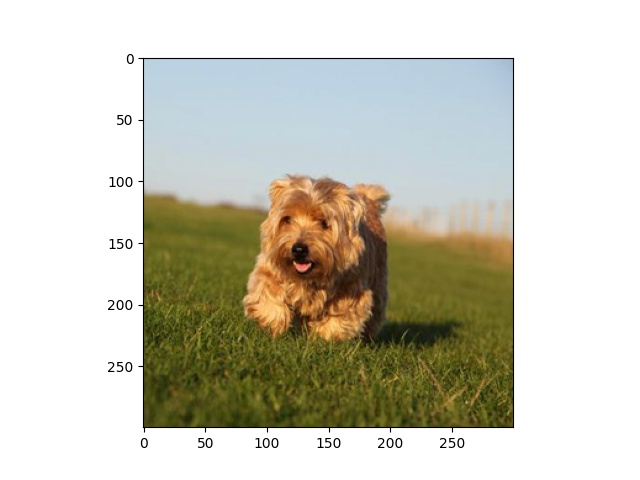
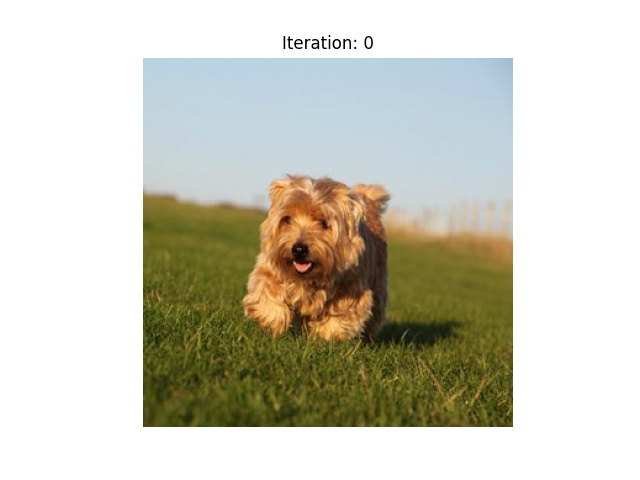
Add coeffs as an argument

diff --git a/Analysis/contour_resample.py b/Analysis/contour_resample.py
@@ -68,7 +68,7 @@ N = 70
 xi, yi = resample_2d(points, N)
 # ax[1].scatter(xi, yi)
 # plt.show()
-fig, ax = plt.subplots(3, 6)
+fig, ax = plt.subplots(3, 4)
 contour_array = np.stack((xi, yi), axis=1)
 # plt.scatter(points[1:, 0], points[1:, 1], c='blue')
 # plt.scatter(points[0, 0], points[0, 1], c='red')
@@ -85,14 +85,14 @@ ax[0, 0].legend()
 ax[0, 0].set_title('Original')
 ax[0, 0].set_ylabel('Images')
 
-ax[1, 0].stem(list(range(len(fourier_result[1:]))), abs(fourier_result[1:]), 'b', markerfmt=" ", basefmt="-b")
+ax[1, 0].stem(np.linspace(0, np.pi, len(fourier_result))[1:], abs(fourier_result[1:]), 'b', markerfmt=" ", basefmt="-b")
 # ax[1, 0].plot(fourier_result.real[1:], label='Real')
 # ax[1, 0].plot(fourier_result.imag[1:], label='Imag')
 # ax[1, 0].legend(loc='lower left')
 ax[1, 0].set_ylabel('Amplitude')
 
 phase = np.arctan2(fourier_result.imag, fourier_result.real)
-ax[2, 0].stem(list(range(len(phase[1:]))), phase[1:], 'b', markerfmt=" ", basefmt="-b")
+ax[2, 0].stem(np.linspace(0, np.pi, len(fourier_result))[1:], phase[1:], 'b', markerfmt=" ", basefmt="-b")
 ax[2, 0].set_ylabel('Phase')
 print('Original', fourier_result.real[1:])
 # plt.scatter(xi[1:], yi[1:], c='blue')
@@ -113,13 +113,13 @@ ax[0, 1].scatter(xi[1]+50, yi[1]+50, c='Green', label='Second')
 ax[0, 1].legend()
 ax[0, 1].set_title('Translated')
 
-ax[1, 1].stem(list(range(len(fourier_result[1:]))), abs(fourier_result[1:]), 'b', markerfmt=" ", basefmt="-b")
+ax[1, 1].stem(np.linspace(0, np.pi, len(fourier_result))[1:], abs(fourier_result[1:]), 'b', markerfmt=" ", basefmt="-b")
 # ax[1, 1].plot(fourier_result.real[1:], label='Real')
 # ax[1, 1].plot(fourier_result.imag[1:], label='Imag')
 # ax[1, 1].legend(loc='lower left')
 
 phase = np.arctan2(fourier_result.imag, fourier_result.real)
-ax[2, 1].stem(list(range(len(phase[1:]))), phase[1:], 'b', markerfmt=" ", basefmt="-b")
+ax[2, 1].stem(np.linspace(0, np.pi, len(fourier_result))[1:], phase[1:], 'b', markerfmt=" ", basefmt="-b")
 
 print('Translated', fourier_result.real[1:])
 # SCALED
@@ -134,19 +134,20 @@ ax[0, 2].scatter(xi[1]*10, yi[1]*10, c='Green', label='Second')
 ax[0, 2].legend()
 ax[0, 2].set_title('Scaled x 10')
 
-ax[1, 2].stem(list(range(len(fourier_result[1:]))), abs(fourier_result[1:]), 'b', markerfmt=" ", basefmt="-b")
+ax[1, 2].stem(np.linspace(0, np.pi, len(fourier_result))[1:], abs(fourier_result[1:]), 'b', markerfmt=" ", basefmt="-b")
 # ax[1, 2].plot(fourier_result.real[1:], label='Real')
 # ax[1, 2].plot(fourier_result.imag[1:], label='Imag')
 # ax[1, 2].legend(loc='lower left')
 
 phase = np.arctan2(fourier_result.imag, fourier_result.real)
-ax[2, 2].stem(list(range(len(phase[1:]))), phase[1:], 'b', markerfmt=" ", basefmt="-b")
+ax[2, 2].stem(np.linspace(0, np.pi, len(fourier_result))[1:], phase[1:], 'b', markerfmt=" ", basefmt="-b")
 print('Scaled', fourier_result.real[1:])
 # ROTATION
 
 im = Image.fromarray(rectangle)
 rotated = im.rotate(30)
 rectangle_rotated = np.array(rotated)
+
 
 contour, hierarchy = cv2.findContours(rectangle_rotated, cv2.RETR_TREE, cv2.CHAIN_APPROX_SIMPLE)
 points_rotated = contour[0][:, 0, :]
@@ -163,40 +164,40 @@ ax[0, 3].scatter(xi[1], yi[1], c='Green', label='Second')
 ax[0, 3].legend()
 ax[0, 3].set_title('Rotated')
 
-ax[1, 3].stem(list(range(len(fourier_result[1:]))), abs(fourier_result[1:]), 'b', markerfmt=" ", basefmt="-b")
+ax[1, 3].stem(np.linspace(0, np.pi, len(fourier_result))[1:], abs(fourier_result[1:]), 'b', markerfmt=" ", basefmt="-b")
 # ax[1, 3].plot(fourier_result.real[1:], label='Real')
 # ax[1, 3].plot(fourier_result.imag[1:], label='Imag')
 # ax[1, 3].legend(loc='lower left')
 
 phase = np.arctan2(fourier_result.imag, fourier_result.real)
-ax[2, 3].stem(list(range(len(phase[1:]))), phase[1:], 'b', markerfmt=" ", basefmt="-b")
+ax[2, 3].stem(np.linspace(0, np.pi, len(fourier_result))[1:], phase[1:], 'b', markerfmt=" ", basefmt="-b")
 print('Rotated', fourier_result.real[1:])
 
 # Use less coefficients 
-xi, yi = resample_2d(points, N)
+# xi, yi = resample_2d(points, N)
 
-contour_array = np.stack((np.roll(xi, -1), np.roll(yi, -1)), axis=1)
-contour_complex = np.empty(contour_array.shape[:-1], dtype=complex)
-contour_complex.real = contour_array[:, 0]
-contour_complex.imag = contour_array[:, 1]
-fourier_result = np.fft.fft(contour_complex)
+# contour_array = np.stack((np.roll(xi, -1), np.roll(yi, -1)), axis=1)
+# contour_complex = np.empty(contour_array.shape[:-1], dtype=complex)
+# contour_complex.real = contour_array[:, 0]
+# contour_complex.imag = contour_array[:, 1]
+# fourier_result = np.fft.fft(contour_complex)
 
-truncated_fourier_result = np.copy(fourier_result)
-truncated_fourier_result[30:] = 0
-inverse_fourier_result = np.fft.ifft(truncated_fourier_result)
-contour_reconstruct = np.array(
-        [inverse_fourier_result.real, inverse_fourier_result.imag])
-contour_reconstruct = np.transpose(contour_reconstruct)
+# truncated_fourier_result = np.copy(fourier_result)
+# truncated_fourier_result[30:] = 0
+# inverse_fourier_result = np.fft.ifft(truncated_fourier_result)
+# contour_reconstruct = np.array(
+#         [inverse_fourier_result.real, inverse_fourier_result.imag])
+# contour_reconstruct = np.transpose(contour_reconstruct)
 
-# xi = np.roll(xi, -1)
-# yi = np.roll(yi, -1)
-xi = contour_reconstruct[:, 0]
-yi = contour_reconstruct[:, 0]
-ax[0, 4].scatter(xi[2:], yi[2:], c='blue')
-ax[0, 4].scatter(xi[0], yi[0], c='red', label='Start')
-ax[0, 4].scatter(xi[1], yi[1], c='Green', label='Second')
-ax[0, 4].legend()
-ax[0, 4].set_title('Use less coefficients')
+# # xi = np.roll(xi, -1)
+# # yi = np.roll(yi, -1)
+# xi = contour_reconstruct[:, 0]
+# yi = contour_reconstruct[:, 0]
+# ax[0, 4].scatter(xi[2:], yi[2:], c='blue')
+# ax[0, 4].scatter(xi[0], yi[0], c='red', label='Start')
+# ax[0, 4].scatter(xi[1], yi[1], c='Green', label='Second')
+# ax[0, 4].legend()
+# ax[0, 4].set_title('Use less coefficients')
 
 
 # ax[1, 4].stem(list(range(len(fourier_result[1:]))), abs(fourier_result[1:]), 'b', markerfmt=" ", basefmt="-b")
@@ -225,17 +226,18 @@ contour_complex.real = contour_array[:, 0]
 contour_complex.imag = contour_array[:, 1]
 fourier_result = np.fft.fft(contour_complex)
 
-ax[0, 5].scatter(xi[2:], yi[2:], c='blue')
-ax[0, 5].scatter(xi[0], yi[0], c='red', label='Start')
-ax[0, 5].scatter(xi[1], yi[1], c='Green', label='Second')
-ax[0, 5].legend()
-ax[0, 5].set_title('Norm. Centroid')
+# ax[0, 4].scatter(xi[2:], yi[2:], c='blue')
+# ax[0, 4].scatter(xi[0], yi[0], c='red', label='Start')
+# ax[0, 4].scatter(xi[1], yi[1], c='Green', label='Second')
+# ax[0, 4].legend()
+# ax[0, 4].set_title('Norm. Centroid')
 
-ax[1, 5].stem(list(range(len(fourier_result[1:]))), abs(fourier_result[1:]), 'b', markerfmt=" ", basefmt="-b")
-# ax[1, 5].plot(fourier_result.real[1:], label='Real')
-# ax[1, 5].plot(fourier_result.imag[1:], label='Imag')
-# ax[1, 5].legend(loc='lower left')
+# ax[1, 4].stem(list(range(len(fourier_result[1:]))), abs(fourier_result[1:]), 'b', markerfmt=" ", basefmt="-b")
+# # ax[1, 5].plot(fourier_result.real[1:], label='Real')
+# # ax[1, 5].plot(fourier_result.imag[1:], label='Imag')
+# # ax[1, 5].legend(loc='lower left')
 
-phase = np.arctan2(fourier_result.imag, fourier_result.real)
-ax[2, 5].stem(list(range(len(phase[1:]))), phase[1:], 'b', markerfmt=" ", basefmt="-b")
+# phase = np.arctan2(fourier_result.imag, fourier_result.real)
+# ax[2, 4].stem(list(range(len(phase[1:]))), phase[1:], 'b', markerfmt=" ", basefmt="-b")
+fig.supxlabel('Frequency (2nd and 3rd row)')
 plt.show()

diff --git a/dataset/superpixel.py b/dataset/superpixel.py
@@ -165,9 +165,35 @@ class ToTensorSP(object):
 
 
 class ToTensorSPFFT(object):
-    def __init__(self, num_seg):
+    def __init__(self, num_seg, coeff):
         self.tensor = transforms.ToTensor()
         self.num_seg = num_seg
+
+        
+        def fourier_descriptors(region):
+            region = (region*255).astype(np.uint8)
+            contour, hierarchy = cv2.findContours(region, cv2.RETR_TREE, cv2.CHAIN_APPROX_SIMPLE)
+            points = contour[0][:, 0, :]
+            xi, yi = resample_2d(points, RESAMPLE_POINTS)
+            contour_array = np.stack((xi, yi), axis=1)
+
+
+            contour_complex = np.empty(contour_array.shape[:-1], dtype=complex)
+            contour_complex.real = contour_array[:, 0]
+            contour_complex.imag = contour_array[:, 1]
+            fourier_result = np.fft.fft(contour_complex)
+
+            fourier_result_front = fourier_result[1:coeff//2]
+            fourier_result_back = fourier_result[-coeff//2:]
+            fourier_result = np.concatenate((fourier_result_front, fourier_result_back), axis=0)
+
+            amp = abs(fourier_result)
+            phase = np.arctan2(fourier_result.imag, fourier_result.real)
+
+            return np.concatenate((amp, phase))
+
+        self.fourier_descriptors = fourier_descriptors
+
 
     def __call__(self, sample):
         img, mask = sample['image'], sample['mask']
@@ -190,7 +216,7 @@ class ToTensorSPFFT(object):
     
 
         regions = regionprops_table(segments, intensity_image=img_np, properties=('label', 'centroid', 'area', 'intensity_mean',
-                                                                                    'coords'), extra_properties=[image_stdev, fourier_descriptors])#, polarize])
+                                                                                    'coords'), extra_properties=[image_stdev, self.fourier_descriptors])#, polarize])
 
         seq_len = len(regions['label'])
         features = np.zeros([self.num_seg, 8+(RESAMPLE_FFT_POINTS-1)*2])
@@ -476,14 +502,14 @@ class ToTensorRaw(object):
         return {'image': img, 'mask': mask}
 
 class SPDataset(data.Dataset):
-    def __init__(self, root_dir, num_seg, size, data_augmentation=True, dataloader=None):
+    def __init__(self, root_dir, num_seg, size, data_augmentation=True, dataloader=None, coeff=None):
         self.root_dir = root_dir
         self.image_list = sorted(os.listdir('{}/Image'.format(root_dir)))
         self.mask_list = sorted(os.listdir('{}/Mask'.format(root_dir)))
         if dataloader == 'SP':
             totensor = ToTensorSP(num_seg)
         elif dataloader == 'SPFFT':
-            totensor = ToTensorSPFFT(num_seg)
+            totensor = ToTensorSPFFT(num_seg, coeff)
         elif dataloader == 'SPED':
             totensor = ToTensorSPET(num_seg)
         elif dataloader == 'SPEmbed':
@@ -563,22 +589,23 @@ class SPDataModule(pl.LightningDataModule):
         self.num_seg = kwargs.get('num_seg', 600)
         self.res = kwargs.get('size')
         self.dataloader = kwargs.get('dataloader')
+        self.coeff = kwargs.get('coeff')
 
         
     def train_dataloader(self):
-        data_train = SPDataset(self.train_dir, self.num_seg, self.res, True, self.dataloader)
+        data_train = SPDataset(self.train_dir, self.num_seg, self.res, True, self.dataloader, self.coeff)
         return DataLoader(
                 data_train, batch_size=self.batch_size, 
                 num_workers=self.num_workers, shuffle=True, pin_memory=False)
 
     def val_dataloader(self):
-        data_val = SPDataset(self.val_dir, self.num_seg, self.res, False, self.dataloader)
+        data_val = SPDataset(self.val_dir, self.num_seg, self.res, False, self.dataloader, self.coeff)
         return DataLoader(
                 data_val, batch_size=self.batch_size, 
                 num_workers=self.num_workers, pin_memory=False)
 
     def test_dataloader(self):
-        data_test = SPDataset(self.test_dir, self.num_seg, self.res,  False, self.dataloader)
+        data_test = SPDataset(self.test_dir, self.num_seg, self.res,  False, self.dataloader, self.coeff)
         return DataLoader(
                 data_test, batch_size=self.batch_size, 
                 num_workers=self.num_workers, pin_memory=False)

diff --git a/Analysis/enforce_connectivity.py b/Analysis/enforce_connectivity.py
@@ -23,7 +23,7 @@ def fft(region):
     # note the ddof arg to get the sample var if you so desire!
     region = (region.astype(int)*255).astype(np.uint8)
     rows, cols = region.shape[-2:]
-    contour = fourier_descriptor(region, 10, rows, cols)
+    contour = fourier_descriptor(region, 9, rows, cols)
 
     return contour
 
@@ -63,12 +63,12 @@ def reconstruct(descriptors, degree, rows, cols):
     contour_reconstruct = np.transpose(contour_reconstruct)
     contour_reconstruct = np.expand_dims(contour_reconstruct, axis=1)
     # make positive
-    if contour_reconstruct.min() < 0:
-        contour_reconstruct -= contour_reconstruct.min()
-    # normalization
-    contour_reconstruct /=  contour_reconstruct.max()
-    contour_reconstruct[:, :, 0] *= rows
-    contour_reconstruct[:, :, 1] *= cols
+    # if contour_reconstruct.min() < 0:
+    #     contour_reconstruct -= contour_reconstruct.min()
+    # # normalization
+    # contour_reconstruct /=  contour_reconstruct.max()
+    # contour_reconstruct[:, :, 0] *= rows
+    # contour_reconstruct[:, :, 1] *= cols
     # type cast to int32
     contour_reconstruct = contour_reconstruct.astype(np.int32, copy=False)
     
@@ -85,6 +85,7 @@ def truncate_descriptor(descriptors, degree):
     descriptors[:center_index - degree // 2] = 0
     descriptors[center_index + degree // 2:] = 0
     descriptors = np.fft.ifftshift(descriptors)
+    # descriptors[degree:] = 0
     return descriptors
     
 
@@ -121,8 +122,8 @@ for file in tqdm(os.listdir(dataset_images)):
     regions = regionprops_table(segments_ec, intensity_image=img, properties=('label', 'centroid', 'area', 'bbox', 'image'), extra_properties=[fft, contour])
     fig, ax = plt.subplots(1, 2)
     print(regions.keys())
-    np.save('/home/eddie/waterloo/supertransformer/Analysis/sample_sp',regions['image'][500])
-    assert(0)
+    # np.save('/home/eddie/waterloo/supertransformer/Analysis/sample_sp',regions['image'][500])
+
     for contours, y, x in zip(regions['contour'], regions['bbox-0'], regions['bbox-1']):
         coord = np.squeeze(contours)
         coord = np.concatenate((coord, coord[0:1]), axis=0)

diff --git a/dataset/attributes.py b/dataset/attributes.py
@@ -70,25 +70,6 @@ def lbp(region, intensities):
     return hist
 
 
-def fourier_descriptors(region):
-    region = (region*255).astype(np.uint8)
-    contour, hierarchy = cv2.findContours(region, cv2.RETR_TREE, cv2.CHAIN_APPROX_SIMPLE)
-    points = contour[0][:, 0, :]
-    xi, yi = resample_2d(points, RESAMPLE_POINTS)
-    contour_array = np.stack((xi, yi), axis=1)
-
-
-    contour_complex = np.empty(contour_array.shape[:-1], dtype=complex)
-    contour_complex.real = contour_array[:, 0]
-    contour_complex.imag = contour_array[:, 1]
-    fourier_result = np.fft.fft(contour_complex)
-    fourier_result = fourier_result[1:RESAMPLE_FFT_POINTS]
-
-    amp = abs(fourier_result)
-    phase = np.arctan2(fourier_result.imag, fourier_result.real)
-
-    return np.concatenate((amp, phase))
-
 
 
 def contours_euc(region):

diff --git a/train.py b/train.py
@@ -110,6 +110,7 @@ if __name__ == "__main__":
                         default=42, type=int)
     parser.add_argument('--clip_grad_norm', help='Clipping gradient norm, 0 means no clipping', type=float, default=0.)
     parser.add_argument('--size', help='Image size for DUTS', type=int, default=224)
+    parser.add_argument('--coeff', help='Number of coefficients for fft', type=int, default=7)
 
 
     args = parser.parse_args()

diff --git a/Analysis/gantt.py b/Analysis/gantt.py
@@ -15,5 +15,5 @@ df = pd.DataFrame([
 ])
 
 fig = px.timeline(df, x_start="Start", x_end="Finish", y="Task", title='Gantt chart of future plans', color='Resource')
-fig.update_yaxes(autorange="reversed") # otherwise tasks are listed from the bottom up
+fig.update_yaxes(autorange="reversed", tickfont_size=20) # otherwise tasks are listed from the bottom up
 fig.show()

diff --git a/Analysis/superpixelGIF.py b/Analysis/superpixelGIF.py
@@ -110,6 +110,8 @@ for file in tqdm(os.listdir(dataset_images)):
         slic_zero=False)
 
         plt.imshow(mark_boundaries(img, segments))
+        plt.axis('off')
+        plt.title(f'Iteration: {i}')
         plt.savefig(f'/home/eddie/waterloo/supertransformer/results/superpixelgif/{i}.jpg')
 
         # fig, ax = plt.subplots(1, 2)
